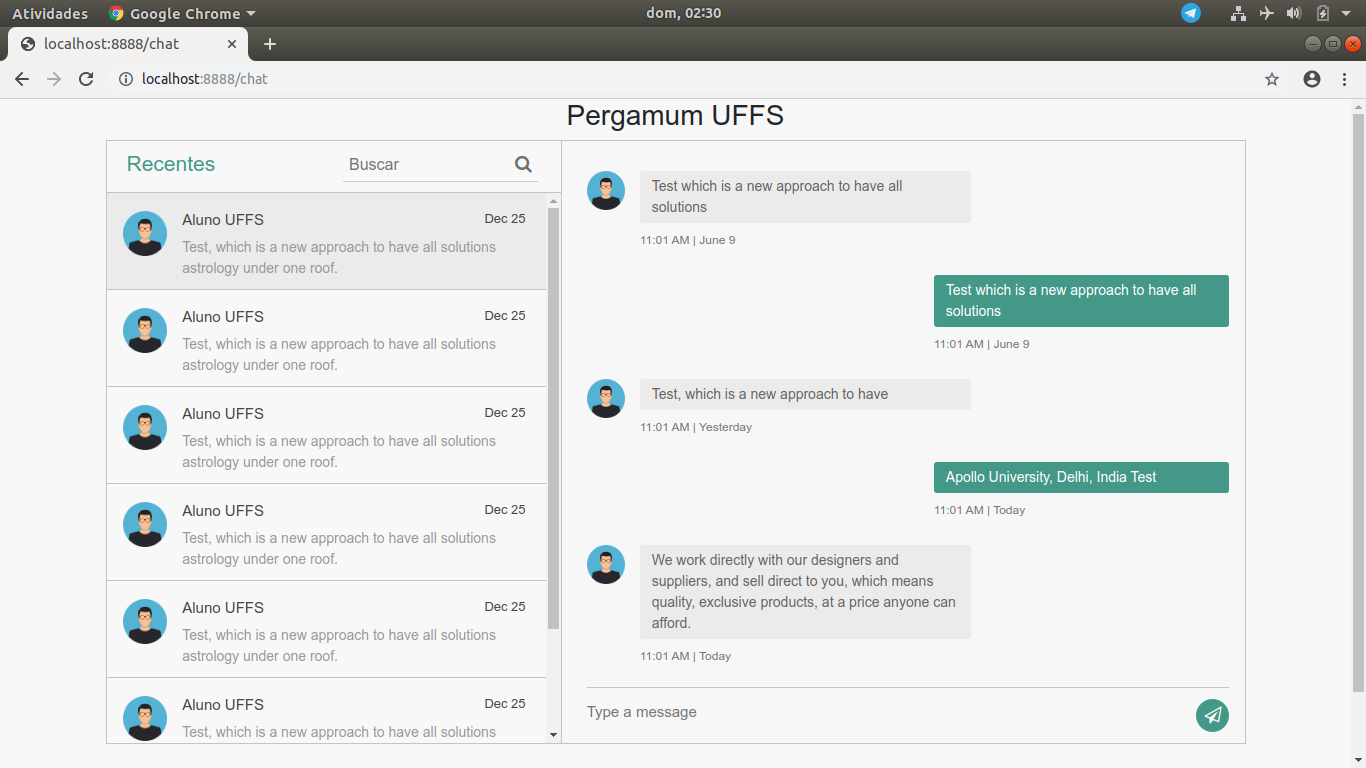
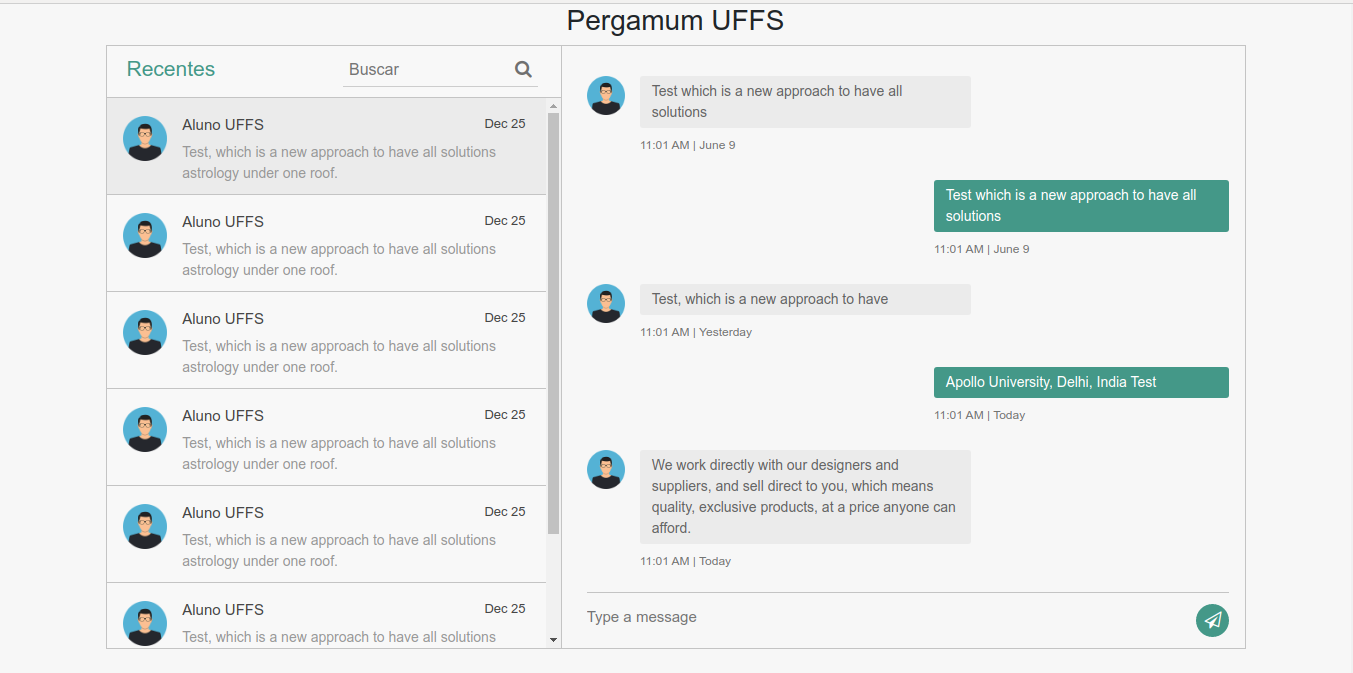
finish

diff --git a/public/html/home.html b/public/html/home.html
@@ -9,13 +9,13 @@
   <meta charset="UTF-8">
   <meta name="viewport" content="width=device-width, initial-scale=1.0">
   <meta http-equiv="X-UA-Compatible" content="ie=edge">
-  <link rel="stylesheet" href="css/datastyle.css">
+  <link rel="stylesheet" href="css/cadstyle.css">
 
 </head>
 
 <body>
   <header>
-    <nav class="navbar navbar-expand-lg navbar-dark bg-dark">
+    <nav class="navbar navbar-ligth navbar-dark bg-dark">
         <button class="navbar-toggler" type="button" data-toggle="collapse" data-target="#navbarSupportedContent" aria-controls="navbarSupportedContent" aria-expanded="false" aria-label="Toggle navigation">
           <span class="navbar-toggler-icon"></span>
         </button>
@@ -34,79 +34,57 @@
   <br><br>
 
   <div class="container container-fluid">  
-    <form>
-      <h3 class=" text-center">Mensagens</h3>
-        <div class="messaging">
-          <div class="inbox_msg">
-            <div class="inbox_people">
-            </div>
-          </div>
-        </div>
-          
-        <div class="outgoing_msg">
-          <!-- aqui vai a (objeto 	  	
-          <div class="sent_msg">
-
-              
-          </div>) mensagem -->            
-        <div class="incoming_msg">
-        </div>
-          <div class="type_msg">
-            <div class="input_msg_write">
-              <input type="text" class="write_msg" name="message" placeholder="Escreva uma mensagem" />
-              <button class="msg_send_btn" type="submit" ><i class="fa fa-paper-plane-o" aria-hidden="true"></i></button>
-            </div>
-          </div>
-        </div>
+       <form id="chat">
+      <input type="text" name="username" placeholder="Digite seu idUFFS ou CPF">
+      <div class="messages">
       </div>
-    </form>      
-  
-          <p class="text-center top_spac"> Design by <a target="_blank" href="#">Sunil Rajput</a></p>
-          
-    
+      <input type="text" name="message" placeholder="Digite sua mensagem">
+      <br>
+      <button type="submit" class="btn btn-dark"> Enviar</button>
+    </form>
+  </div>
 
-    
-  </div>  
-  
-      <script type="text/javascript">
-        function renderMessage(message) {
-          $('.outgoing_msg').append('<div class="sent_msg"><strong><p> '+ username +' </strong>: '+ message.message + '</p><span class="time_date">' + document.write(new Date) + '</div>');
-        }
-      </script>
-  
-  
-      <script type="text/javascript">
-  
-        let socket = io('http://localhost:8888');
-  
-        socket.on('previousMessage', function(messages) {
-          for(message of messages){
-            renderMessage(message);
-          }
-        });
-        
-        socket.on('receivedMessage', function(message) {
+
+  <script type="text/javascript">
+      function renderMessage(message) {
+        $('.messages').append('<div class="message"><strong> '+ message.author +' </strong>: '+ message.message +' </div>');
+      }
+    </script>
+
+
+    <script type="text/javascript">
+
+      var socket = io('http://localhost:8888');
+
+      socket.on('previousMessage', function(messages) {
+        for(message of messages){
           renderMessage(message);
-        });   
-  
-  
-  
-        $('#chat').submit(function(event) {
-          event.preventDefault();
-          let message = $('input[name=message]').val();
-  
-          if(message.length){
-            var messageObject = {
-              message: message,
-            };
-            socket.emit('sendMessage', messageObject);
-          }
-  
-        renderMessage(messageObject);
-        })
-  
-      </script>
-    </div>  
+        }
+      });
+      
+      socket.on('receivedMessage', function(message) {
+        renderMessage(message);
+      });   
+
+
+
+      $('#chat').submit(function(event) {
+        event.preventDefault();
+        var author = $('input[name=username]').val();
+        var message = $('input[name=message]').val();
+
+        if(author.length && message.length){
+          var messageObject = {
+            author: author,
+            message: message,
+          };
+          socket.emit('sendMessage', messageObject);
+        }
+
+      renderMessage(messageObject);
+      })
+
+    </script>
   </div>
   <!--footer>
   </footer-->
